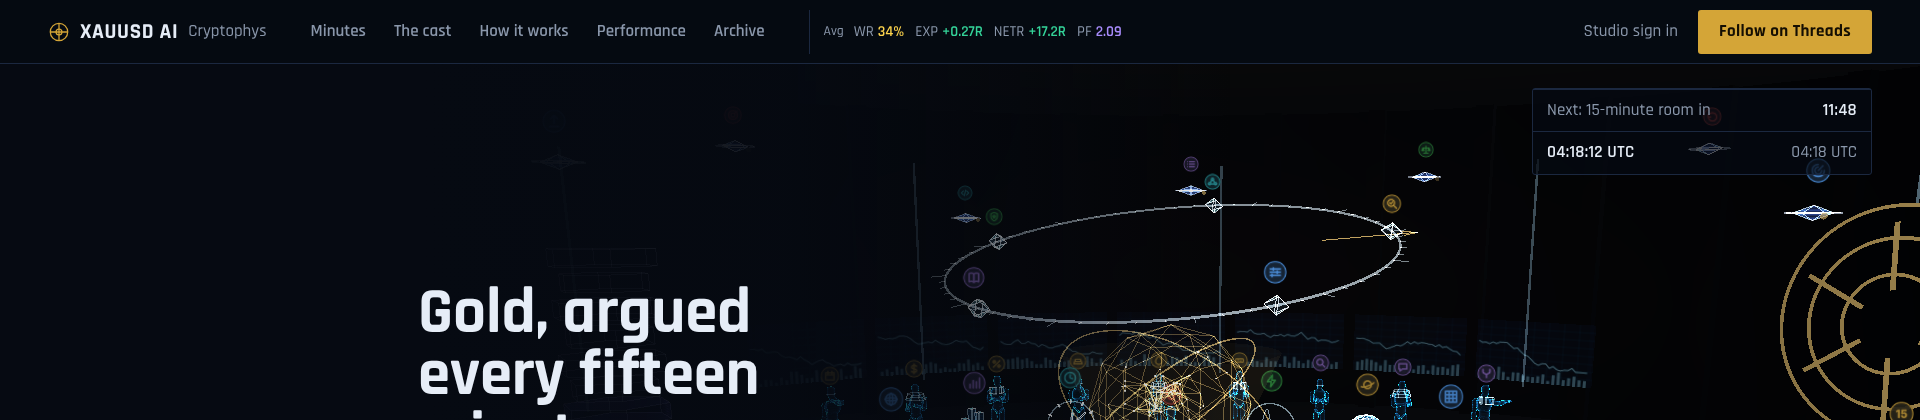
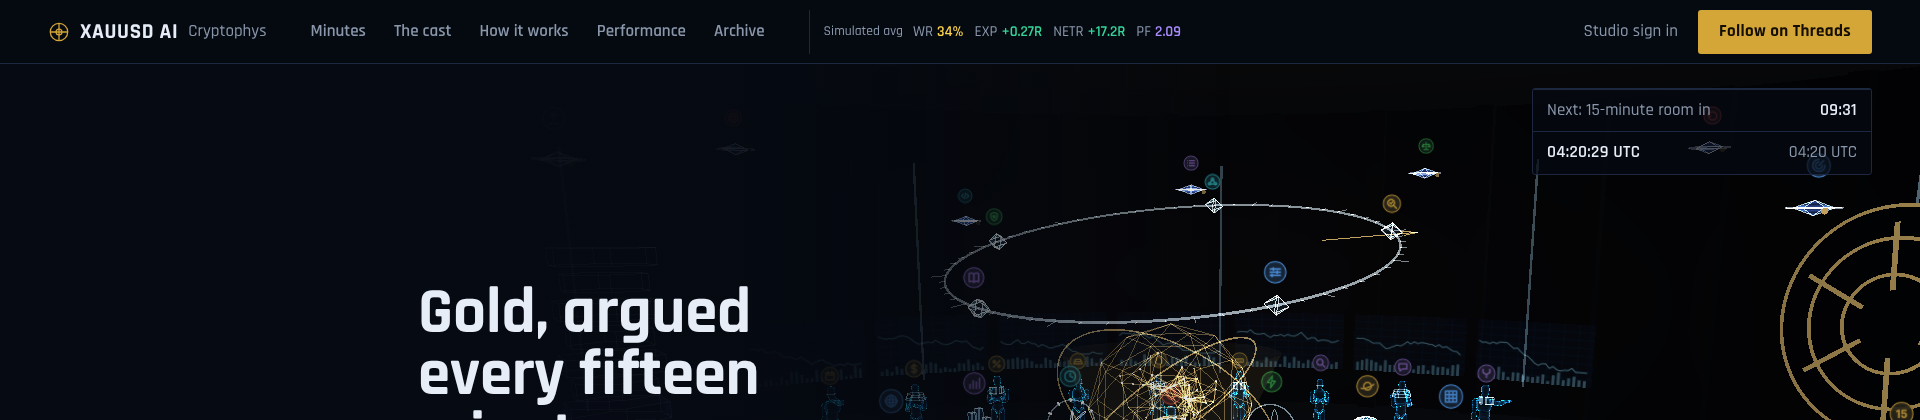
fix(site): "Simulated" visible in the header strip; spacing at 1401-1600 px
Orchestrator review: the public rule keeps "Simulated" visible, not only in the title. The
strip reads "Simulated avg WR 34% EXP +0.27R NETR +17.2R PF 2.09"; the header's spacing
between 1401 and 1600 px is tightened so the Threads button keeps its margin at 1440 px.

Claude-Session: https://claude.ai/code/session_01KGEN4kEb43zV5dL2r6HYip

diff --git a/public/home.css b/public/home.css
@@ -296,6 +296,6 @@ button{font:inherit;color:inherit}
 .avg-strip:hover .avg-label{color:var(--ink);text-decoration:underline}
 .t-pos{color:var(--n-pos)}.t-neg{color:var(--n-neg)}.t-wait{color:var(--n-wait)}.t-pf{color:var(--n-pf)}.t-zero{color:var(--n-zero)}
 @media (max-width:1400px){.avg-strip{display:none}}
-@media (min-width:1401px) and (max-width:1600px){.top{gap:20px}.top nav a{padding:0 9px}.top-end{gap:14px}}
+@media (min-width:1401px) and (max-width:1600px){.top{gap:16px}.top nav a{padding:0 8px}.top-end{gap:12px}.avg-strip{gap:8px;padding-left:12px}.avg-vals{gap:9px}}
 .top .brand,.top nav a,.top .quiet{white-space:nowrap}
 .track td b.t-pos{color:var(--n-pos)}.track td b.t-neg{color:var(--n-neg)}.track td b.t-wait{color:var(--n-wait)}.track td b.t-pf{color:var(--n-pf)}.track td b.t-zero{color:var(--n-zero)}

diff --git a/public/index.html b/public/index.html
@@ -26,7 +26,7 @@
     <a href="/archive">Archive</a>
   </nav>
   <a class="avg-strip" id="avg-strip" href="/performance" title="Simulated, the average of the exit scenarios" hidden>
-    <span class="avg-label">Avg</span>
+    <span class="avg-label">Simulated avg</span>
     <span class="avg-vals"></span>
   </a>
   <div class="top-end">

diff --git a/public/performance.html b/public/performance.html
@@ -26,7 +26,7 @@
     <a href="/archive">Archive</a>
   </nav>
   <a class="avg-strip" id="avg-strip" href="/performance" title="Simulated, the average of the exit scenarios" hidden>
-    <span class="avg-label">Avg</span>
+    <span class="avg-label">Simulated avg</span>
     <span class="avg-vals"></span>
   </a>
   <div class="top-end">

diff --git a/docs/SSOT.md b/docs/SSOT.md
@@ -18,7 +18,7 @@ Bindings:
 - **The home page is the holo war room** (owner 2026-11-19: the orchestrator's prototype approved, "Ya, bangun"; phones "3D, kualitas rendah"; sound "Ada, mati default"; the two guardians "Ikon beda"). A three.js scene of the AI analysts meeting around a projection table: 49 agents (people as holograms, the indicator analysts as constructs, the knowledge agents on the compass ring, the platform agents as drones), the Cerebrum core in the room's bias colour (since 2026-11-20, owner: red bearish, green bullish, amber undecided), the fixed line "Analysis, not a signal". It follows the real rooms: `GET /api/public/warroom-scene` every minute, and a room that has just concluded meets (its analysts' public claims and rebuttals as subtitles, then the Moderator's reasons, then the core seals); between rooms the hall idles; the 15M/1H/4H/1D chips replay a room's latest meeting. **Follow** is the first call to action: one dialog with every channel that has a public link or a published post (X hidden) and its latest post. The navigator (`#agents`) lists every agent and its role as static HTML, the scene's text equivalent. Phones and small GPUs: no bloom, pixel ratio 1, a drag scrolls the page; `prefers-reduced-motion`: no camera drift or fly-to, spins and flicker slowed; the scene draws only while on screen. Ambient sound is generated with WebAudio, off until the visitor turns it on.
   - **Redesign (2026-11-19, owner "lanjutkan frontend", the orchestrator's mockup; scope confirmed by the owner).** The page has its own dark look and stylesheet (`public/home.css`, no `cta.css`): vault `#060A12`, deck `#0C1424`, rule `#1B2840`, holo `#8FD8FF` for anything you act on, gold `#D4A537` for the brand and the one main action (**Follow on Threads**, the link from `GET /api/public/profile`; the Follow dialog is gone); readings (owner 2026-11-20: "bearish seharusnya berwarna merah, dan bullish hijau dan netral warna amber") are bearish red `#F2606E`, bullish green `#3FD08A`, undecided amber `#E0A458`, the same in the 3D scene; sentence case, no all-caps labels, middle dots or arrows. Type: Rajdhani 500/600/700 and Newsreader 400, 400 italic and 500, self-hosted from `@fontsource` (OFL, latin woff2 only; `public/fonts/`, licences in `public/fonts/OFL.txt`), so `font-src 'self'` is unchanged. Sections:
     - **Hero:** the live scene, the copy on its left over a dark gradient (on a phone the scene first at 4:3, the copy below), the status box top right, the speaker's caption right of the copy, the scene's own controls bottom right (15m, 1h, 4h, 1d, Agents, Sound). The brand line, "Analysis, not a signal" and Follow left the scene. One load sequence, none under `prefers-reduced-motion`.
-    - **Status box** (owner 2026-11-20, "approved all"): three rows, the room's reading (the 15-minute room's, or the room replaying), the countdown to the next meeting naming the rooms that meet then (15m every quarter hour; 1H on the hour; 4H at 22, 02, 06, 10, 14, 18 UTC; 1D at 22:00 UTC), and the UTC time (seconds) with the visitor's local time and short zone name (Intl). While gold is closed: "Market closed, the rooms meet again <local day and time>". The rule is the AI Worker's own (`site/home/market-hours.js`, copied from xauusd-ai-trading-assistant `src/market-hours.mjs`: closed Friday 17:00 to Sunday 18:00 New York time, so 22:00 to 23:00 UTC in November and an hour earlier in US daylight time); a room meets at a quarter-hour close when gold traded just before it, as the War Room's sweep (`marketOpenAt(close - 1)`), so the first meeting after the reopen is the next quarter hour. Pure in `site/home/clock.js`; the ticking rows are no live region. On a phone it follows the hero buttons. The **average strip** sits in the header of the home and Performance pages (owner 2026-11-20: "di header aja, supaya tidak terlalu penuh"; `site/home/avg-strip.js`): one link after the nav, "Avg" with WR, EXP, NETR and PF, each the mean over the scenarios that show numbers (owner: "cukup pakai kode WR EXP NETR PF"; the managed exit counts only once shown; `headline` in `site/home/track.js`), hidden without a record and at 1400 px and narrower. Results use Nexus's colours (owner: "samakan dengan yang di nexus") in the strip and the Performance table: R above zero #34d399, below #fb7185, zero #64748b; win rate from 50 % #34d399, under it #fcd34d; profit factor #a78bfa.
+    - **Status box** (owner 2026-11-20, "approved all"): three rows, the room's reading (the 15-minute room's, or the room replaying), the countdown to the next meeting naming the rooms that meet then (15m every quarter hour; 1H on the hour; 4H at 22, 02, 06, 10, 14, 18 UTC; 1D at 22:00 UTC), and the UTC time (seconds) with the visitor's local time and short zone name (Intl). While gold is closed: "Market closed, the rooms meet again <local day and time>". The rule is the AI Worker's own (`site/home/market-hours.js`, copied from xauusd-ai-trading-assistant `src/market-hours.mjs`: closed Friday 17:00 to Sunday 18:00 New York time, so 22:00 to 23:00 UTC in November and an hour earlier in US daylight time); a room meets at a quarter-hour close when gold traded just before it, as the War Room's sweep (`marketOpenAt(close - 1)`), so the first meeting after the reopen is the next quarter hour. Pure in `site/home/clock.js`; the ticking rows are no live region. On a phone it follows the hero buttons. The **average strip** sits in the header of the home and Performance pages (owner 2026-11-20: "di header aja, supaya tidak terlalu penuh"; `site/home/avg-strip.js`): one link after the nav, "Simulated avg" with WR, EXP, NETR and PF, each the mean over the scenarios that show numbers (owner: "cukup pakai kode WR EXP NETR PF"; the managed exit counts only once shown; `headline` in `site/home/track.js`), hidden without a record and at 1400 px and narrower. Results use Nexus's colours (owner: "samakan dengan yang di nexus") in the strip and the Performance table: R above zero #34d399, below #fb7185, zero #64748b; win rate from 50 % #34d399, under it #fcd34d; profit factor #a78bfa.
     - **Latest on Threads** (`#latest`, orchestrator review: the live page's latest post per channel, the owner's "Follow first"): the newest Threads post's headline only (its first line without "Education ·", through the rooms' filter; a body may carry prices and levels), when it went out and a link to the channel, from `GET /api/public/archive`. X stays hidden. Hidden when there is no post.
     - **Minutes** (`#minutes`): tabs 15 minutes, 1 hour, 4 hours, 1 day (arrow keys, Home, End); per room the time it met, "The room reads …", the tally bar and its words, the Moderator's conclusion, then each analyst who spoke (a claim that passes the filter) with its "In reply to …" rebuttal, five first and "Show all N who spoke". Built by `minutesFromScene` in `site/room/script.js`, the same second filter as the scene; nothing beyond the public scene.
     - **One feed:** `site/room/feed.js` polls `GET /api/public/warroom-scene` once a minute (`cache: 'no-store'`), skips the read in a hidden tab and reads once when the tab is shown again, and shares each answer with the minutes and the scene (`window` event `warroom-scene`); the scene no longer fetches.

diff --git a/docs/CHANGELOG.md b/docs/CHANGELOG.md
@@ -1,7 +1,7 @@
 # Changelog
 
 ## 2026-11-20 (header strip)
-- fix(site): the home's average box moves into the header as one quiet link after the nav: "Avg" with WR, EXP, NETR and PF, each the mean over the scenarios shown (owner: "cukup pakai kode WR EXP NETR PF"; confirmed: the average of the scenarios), on the home and Performance pages; the hero keeps only the status box. Results use Nexus's colours (owner 2026-11-20: "indikator performance ditempatkan di header aja, supaya tidak terlalu penuh"; "warnanya samakan dengan yang di nexus"): R above zero #34d399, below #fb7185, zero #64748b; win rate from 50 % #34d399, under it #fcd34d; profit factor #a78bfa, in the strip and the Performance table. The strip hides at 1400 px and narrower, where the header has no room (the footer links to Performance).
+- fix(site): the home's average box moves into the header as one quiet link after the nav: "Simulated avg" with WR, EXP, NETR and PF, each the mean over the scenarios shown (owner: "cukup pakai kode WR EXP NETR PF"; confirmed: the average of the scenarios), on the home and Performance pages; the hero keeps only the status box. Results use Nexus's colours (owner 2026-11-20: "indikator performance ditempatkan di header aja, supaya tidak terlalu penuh"; "warnanya samakan dengan yang di nexus"): R above zero #34d399, below #fb7185, zero #64748b; win rate from 50 % #34d399, under it #fcd34d; profit factor #a78bfa, in the strip and the Performance table. The strip hides at 1400 px and narrower, where the header has no room (the footer links to Performance).
 
 ## 2026-11-20
 - feat(home): **Performance** and the hero's clock (owner 2026-11-20, "approved all"; the orchestrator's mockup, with its review: each column its own count). A public page `/performance`: the simulated track record in R from the new `GET /api/public/track-record` (`PROJECTION.trackRecord()`, xauusd-ai-trading-assistant #499; aggregates only, the documented fields only, 10 minutes at the edge; without a record 200 `{ available: false }` and the page says the numbers are not available yet). One table, win rate, expectancy, net R and profit factor by Exit at TP1, Exit at TP2 and Managed exit, each column with its own count and start and a footnote that the columns cover different sets; the managed exit only once the replay matches the live account, until then one slate line without a number; a term list for beginners and the simulation disclaimer; label and value rows on a phone. Performance joins the navigation before Archive. On the home page the status box gains the countdown to the next meeting with the rooms that meet then, and the UTC and local time; while gold is closed it names when the rooms meet again, by the AI Worker's own market-hours rule (`site/home/market-hours.js`, copied from its `src/market-hours.mjs`). Under it a quiet average box: the expectancy per plan of each shown scenario, linking to Performance. Tests CK1–CK6, TK1–TK6; screenshots in `docs/screenshots/performance/`.
